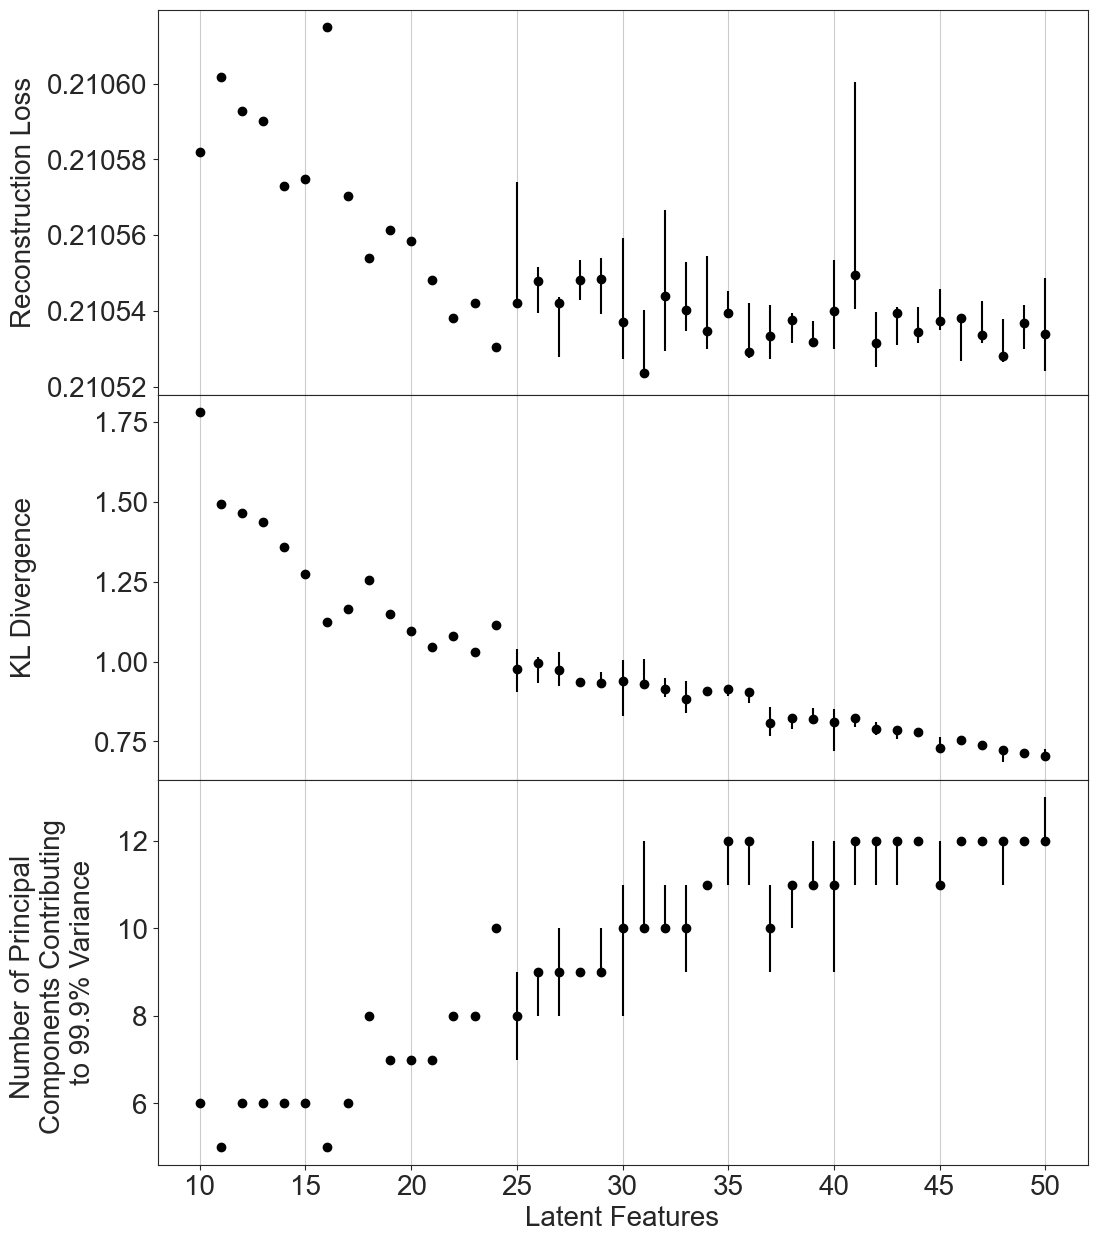
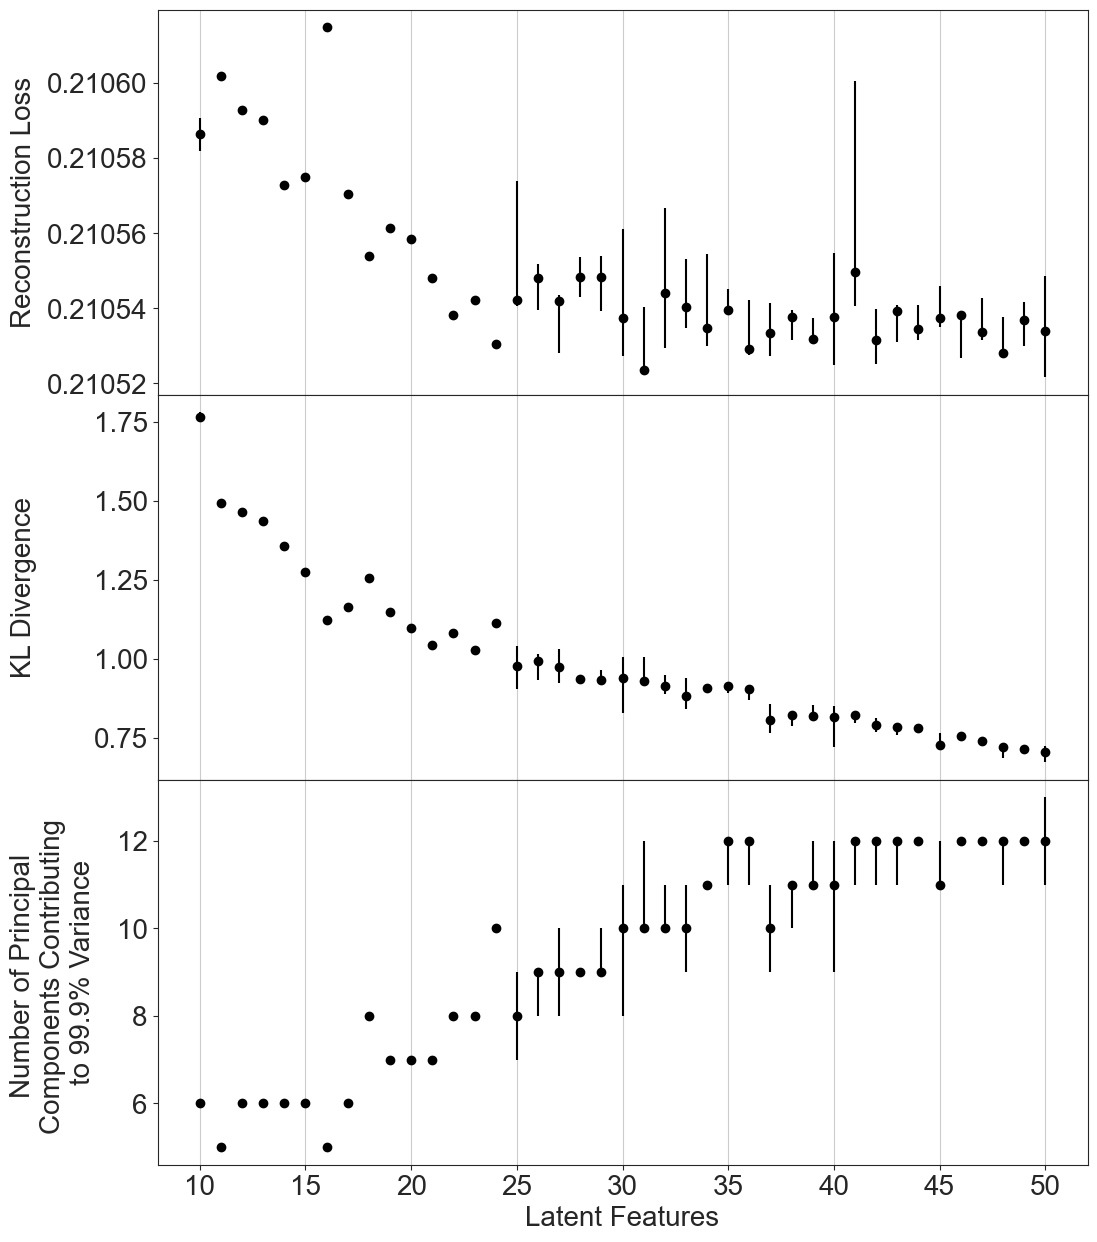
Code

diff --git a/planar_flow_vae_eagle.py b/planar_flow_vae_eagle.py
@@ -145,55 +145,12 @@ def normalise_independently(image):
 
 # load spirals only
 
-spirals = np.load("Galaxy Properties/Eagle Properties/chosen_glaxies_spirals.npy")
-
-all_images = []
-
-for galaxy in spirals:
-
-    # open the image and append it to the main list
-    image = mpimg.imread("/cosma7/data/Eagle/web-storage/RefL0100N1504_Subhalo/galrand_" + str(galaxy) + ".png")
-
-    # normalise the image (each band independently)
-    image = normalise_independently(image)
-
-    # add the image to the dataset
-    all_images.append(image)
-
-
-augmented_galaxies = os.listdir("/cosma5/data/durham/dc-howi1/project/Eagle Augmented/Spirals Only/")
-
-for galaxy in augmented_galaxies:
-
-    # load each augmented image
-    image = mpimg.imread("/cosma5/data/durham/dc-howi1/project/Eagle Augmented/Spirals Only/" + galaxy)
-
-    # normalise the image
-    image = normalise_independently(image)
-
-    # add the image to the training set (not the testing set)
-    all_images.append(image)
-
-
-train_images = np.array(all_images)
-# test_images = np.array(all_images[-200:])
-
-print("Spirals Training Set:", train_images.shape)
-print()
-
-
-
-
-
-
-
-# load transitional only
-
-# transitional = np.load("Galaxy Properties/Eagle Properties/chosen_glaxies_transitional.npy")
+# spirals = np.load("Galaxy Properties/Eagle Properties/chosen_glaxies_spirals.npy")
 #
 # all_images = []
 #
-# for galaxy in transitional:
+# for galaxy in spirals:
+#
 #     # open the image and append it to the main list
 #     image = mpimg.imread("/cosma7/data/Eagle/web-storage/RefL0100N1504_Subhalo/galrand_" + str(galaxy) + ".png")
 #
@@ -203,12 +160,13 @@ print()
 #     # add the image to the dataset
 #     all_images.append(image)
 #
-# augmented_galaxies = os.listdir("/cosma5/data/durham/dc-howi1/project/Eagle Augmented/Transitional Only/")
+#
+# augmented_galaxies = os.listdir("/cosma5/data/durham/dc-howi1/project/Eagle Augmented/Spirals Only/")
 #
 # for galaxy in augmented_galaxies:
 #
 #     # load each augmented image
-#     image = mpimg.imread("/cosma5/data/durham/dc-howi1/project/Eagle Augmented/Transitional Only/" + galaxy)
+#     image = mpimg.imread("/cosma5/data/durham/dc-howi1/project/Eagle Augmented/Spirals Only/" + galaxy)
 #
 #     # normalise the image
 #     image = normalise_independently(image)
@@ -216,11 +174,53 @@ print()
 #     # add the image to the training set (not the testing set)
 #     all_images.append(image)
 #
+#
 # train_images = np.array(all_images)
 # # test_images = np.array(all_images[-200:])
 #
-# print("Transitional Training Set:", train_images.shape)
+# print("Spirals Training Set:", train_images.shape)
 # print()
+
+
+
+
+
+
+
+# load transitional only
+
+transitional = np.load("Galaxy Properties/Eagle Properties/chosen_glaxies_transitional.npy")
+
+all_images = []
+
+for galaxy in transitional:
+    # open the image and append it to the main list
+    image = mpimg.imread("/cosma7/data/Eagle/web-storage/RefL0100N1504_Subhalo/galrand_" + str(galaxy) + ".png")
+
+    # normalise the image (each band independently)
+    image = normalise_independently(image)
+
+    # add the image to the dataset
+    all_images.append(image)
+
+augmented_galaxies = os.listdir("/cosma5/data/durham/dc-howi1/project/Eagle Augmented/Transitional Only/")
+
+for galaxy in augmented_galaxies:
+
+    # load each augmented image
+    image = mpimg.imread("/cosma5/data/durham/dc-howi1/project/Eagle Augmented/Transitional Only/" + galaxy)
+
+    # normalise the image
+    image = normalise_independently(image)
+
+    # add the image to the training set (not the testing set)
+    all_images.append(image)
+
+train_images = np.array(all_images)
+# test_images = np.array(all_images[-200:])
+
+print("Transitional Training Set:", train_images.shape)
+print()
 
 
 
@@ -536,16 +536,16 @@ for run in range(17, 26):
     vae.build(input_shape=(None, 256, 256, 3))
 
     # or load the weights from a previous run
-    vae.load_weights("Variational Eagle/Weights/Spirals/planar_new_latent_" + str(encoding_dim) + "_beta_" + beta_name + "_epoch_" + str(epochs) + "_flows_" + str(n_flows) + "_" + str(run) + "_default.weights.h5")
+    vae.load_weights("Variational Eagle/Weights/Transitional/planar_new_latent_" + str(encoding_dim) + "_beta_" + beta_name + "_epoch_" + str(epochs) + "_flows_" + str(n_flows) + "_" + str(run) + "_default.weights.h5")
 
     # save the weights
-    vae.save_weights(filepath="Variational Eagle/Weights/Spirals/planar_new_latent_" + str(encoding_dim) + "_beta_" + beta_name + "_epoch_" + str(epochs) + "_flows_" + str(n_flows) + "_" + str(run) + "_default.weights.h5", overwrite=True)
+    vae.save_weights(filepath="Variational Eagle/Weights/Transitional/planar_new_latent_" + str(encoding_dim) + "_beta_" + beta_name + "_epoch_" + str(epochs) + "_flows_" + str(n_flows) + "_" + str(run) + "_default.weights.h5", overwrite=True)
 
 
 
     # get and save the extracted features (pre transformations)
     z_mean, z_log_var, _, _ = vae.encoder.predict(train_images)
-    np.save("Variational Eagle/Extracted Features/Spirals/planar_new_latent_" + str(encoding_dim) + "_beta_" + beta_name + "_epoch_" + str(epochs) + "_flows_" + str(n_flows) + "_" + str(run) + "_default.npy", z_mean)
+    np.save("Variational Eagle/Extracted Features/Transitional/planar_new_latent_" + str(encoding_dim) + "_beta_" + beta_name + "_epoch_" + str(epochs) + "_flows_" + str(n_flows) + "_" + str(run) + "_default.npy", z_mean)
 
 
 
@@ -573,7 +573,7 @@ for run in range(17, 26):
         sum_log_det_jacobians = np.zeros(z_mean.shape[0], dtype=np.float32)
 
 
-    np.save("Variational Eagle/Extracted Features/Spirals/planar_new_latent_" + str(encoding_dim) + "_beta_" + beta_name + "_epoch_" + str(epochs) + "_flows_" + str(n_flows) + "_" + str(run) + "_default_transformed.npy", z_transformed)
+    np.save("Variational Eagle/Extracted Features/Transitional/planar_new_latent_" + str(encoding_dim) + "_beta_" + beta_name + "_epoch_" + str(epochs) + "_flows_" + str(n_flows) + "_" + str(run) + "_default_transformed.npy", z_transformed)
 
 
 
@@ -602,7 +602,7 @@ for run in range(17, 26):
         total_loss = reconstruction_loss + (beta * kl_loss)
 
         loss = np.array([total_loss, reconstruction_loss, kl_loss])
-        np.save("Variational Eagle/Loss/Spirals/planar_new_latent_" + str(encoding_dim) + "_beta_" + beta_name + "_epoch_" + str(epochs) + "_flows_" + str(n_flows) + "_" + str(run) + "_default.npy", loss)
+        np.save("Variational Eagle/Loss/Transitional/planar_new_latent_" + str(encoding_dim) + "_beta_" + beta_name + "_epoch_" + str(epochs) + "_flows_" + str(n_flows) + "_" + str(run) + "_default.npy", loss)
 
 
         # individual losses of each image
@@ -610,7 +610,7 @@ for run in range(17, 26):
         print(reconstruction_loss_individual.shape)
 
         # save individual losses
-        np.save("Variational Eagle/Loss/Spirals/planar_new_latent_" + str(encoding_dim) + "_beta_" + beta_name + "_epoch_" + str(epochs) + "_flows_" + str(n_flows) + "_" + str(run) + "_default_individual_reconstruction.npy", reconstruction_loss_individual)
+        np.save("Variational Eagle/Loss/Transitional/planar_new_latent_" + str(encoding_dim) + "_beta_" + beta_name + "_epoch_" + str(epochs) + "_flows_" + str(n_flows) + "_" + str(run) + "_default_individual_reconstruction.npy", reconstruction_loss_individual)
 
 
         # individual residuals of each image
@@ -620,7 +620,7 @@ for run in range(17, 26):
         print("Residual Shape", residuals.shape)
 
         # save the individual residuals
-        np.save("Variational Eagle/Loss/Spirals/planar_new_latent_" + str(encoding_dim) + "_beta_" + beta_name + "_epoch_" + str(epochs) + "_flows_" + str(n_flows) + "_" + str(run) + "_default_individual_residual.npy", residuals)
+        np.save("Variational Eagle/Loss/Transitional/planar_new_latent_" + str(encoding_dim) + "_beta_" + beta_name + "_epoch_" + str(epochs) + "_flows_" + str(n_flows) + "_" + str(run) + "_default_individual_residual.npy", residuals)
 
 
         print("\n \n" + str(encoding_dim) + "   " + str(n_flows) + "   " + str(run))
@@ -690,7 +690,7 @@ for run in range(17, 26):
         axs[1, i].get_xaxis().set_visible(False)
         axs[1, i].get_yaxis().set_visible(False)
 
-    plt.savefig("Variational Eagle/Reconstructions/Training/Spirals/planar_new_latent_" + str(encoding_dim) + "_beta_" + beta_name + "_epoch_" + str(epochs) + "_flows_" + str(n_flows) + "_" + str(run) + "_default")
+    plt.savefig("Variational Eagle/Reconstructions/Training/Transitional/planar_new_latent_" + str(encoding_dim) + "_beta_" + beta_name + "_epoch_" + str(epochs) + "_flows_" + str(n_flows) + "_" + str(run) + "_default")
     plt.show(block=False)
     plt.close()
 

diff --git a/comparison-models.py b/comparison-models.py
@@ -24,26 +24,28 @@ transitional_losses = []
 for run in range(1, 26):
 
     # balanced_loss = np.load("Variational Eagle/Loss/Normalising Flow Balanced/planar_new_latent_" + str(encoding_dim) + "_beta_" + beta_name + "_epoch_" + str(epochs) + "_flows_" + str(n_flows) + "_" + str(run) + "_default.npy")
+    # balanced_losses.append(balanced_loss[1])
     balanced_loss = np.load("Variational Eagle/Loss/Normalising Flow Balanced/planar_new_latent_" + str(encoding_dim) + "_beta_" + beta_name + "_epoch_" + str(epochs) + "_flows_" + str(n_flows) + "_" + str(run) + "_default_individual_residual.npy")
     balanced_loss = np.mean(balanced_loss)
-    balanced_losses.append(balanced_loss[1])
+    balanced_losses.append(balanced_loss)
 
-# for run in range(1, 11):
-
-    spiral_loss = np.load("Variational Eagle/Loss/Spirals/planar_new_latent_" + str(encoding_dim) + "_beta_" + beta_name + "_epoch_" + str(epochs) + "_flows_" + str(n_flows) + "_" + str(run) + "_default.npy")
-    # spiral_loss = np.load("Variational Eagle/Loss/Spirals/planar_new_latent_" + str(encoding_dim) + "_beta_" + beta_name + "_epoch_" + str(epochs) + "_flows_" + str(n_flows) + "_" + str(run) + "_default_individual_residual.npy")
+    # spiral_loss = np.load("Variational Eagle/Loss/Spirals/planar_new_latent_" + str(encoding_dim) + "_beta_" + beta_name + "_epoch_" + str(epochs) + "_flows_" + str(n_flows) + "_" + str(run) + "_default.npy")
+    # spiral_losses.append(spiral_loss[1])
+    spiral_loss = np.load("Variational Eagle/Loss/Spirals/planar_new_latent_" + str(encoding_dim) + "_beta_" + beta_name + "_epoch_" + str(epochs) + "_flows_" + str(n_flows) + "_" + str(run) + "_default_individual_residual.npy")
     spiral_loss = np.mean(spiral_loss)
-    spiral_losses.append(spiral_loss[1])
+    spiral_losses.append(spiral_loss)
 
-    transitional_loss = np.load("Variational Eagle/Loss/Transitional/planar_new_latent_" + str(encoding_dim) + "_beta_" + beta_name + "_epoch_" + str(epochs) + "_flows_" + str(n_flows) + "_" + str(run) + "_default.npy")
-    # transitional_loss = np.load("Variational Eagle/Loss/Transitional/planar_new_latent_" + str(encoding_dim) + "_beta_" + beta_name + "_epoch_" + str(epochs) + "_flows_" + str(n_flows) + "_" + str(run) + "_default_individual_residual.npy")
+    # transitional_loss = np.load("Variational Eagle/Loss/Transitional/planar_new_latent_" + str(encoding_dim) + "_beta_" + beta_name + "_epoch_" + str(epochs) + "_flows_" + str(n_flows) + "_" + str(run) + "_default.npy")
+    # transitional_losses.append(transitional_loss[1])
+    transitional_loss = np.load("Variational Eagle/Loss/Transitional/planar_new_latent_" + str(encoding_dim) + "_beta_" + beta_name + "_epoch_" + str(epochs) + "_flows_" + str(n_flows) + "_" + str(run) + "_default_individual_residual.npy")
     transitional_loss = np.mean(transitional_loss)
-    transitional_losses.append(transitional_loss[1])
+    transitional_losses.append(transitional_loss)
 
     # elliptical_loss = np.load("Variational Eagle/Loss/Ellipticals/planar_new_latent_" + str(encoding_dim) + "_beta_" + beta_name + "_epoch_" + str(epochs) + "_flows_" + str(n_flows) + "_" + str(run) + "_default.npy")
+    # elliptical_losses.append(elliptical_loss[1])
     elliptical_loss = np.load("Variational Eagle/Loss/Ellipticals/planar_new_latent_" + str(encoding_dim) + "_beta_" + beta_name + "_epoch_" + str(epochs) + "_flows_" + str(n_flows) + "_" + str(run) + "_default_individual_residual.npy")
     elliptical_loss = np.mean(elliptical_loss)
-    elliptical_losses.append(elliptical_loss[1])
+    elliptical_losses.append(elliptical_loss)
 
 
 all_losses = [balanced_losses, spiral_losses, transitional_losses, elliptical_losses]
@@ -51,11 +53,11 @@ all_losses = [balanced_losses, spiral_losses, transitional_losses, elliptical_lo
 
 
 
-# fig, axs = plt.subplots(1, 1, figsize=(20, 20))
-#
-# axs.boxplot(x=all_losses)
-#
-# plt.show()
+fig, axs = plt.subplots(1, 1, figsize=(20, 20))
+
+axs.boxplot(x=all_losses)
+
+plt.show()
 
 
 
@@ -75,29 +77,29 @@ all_losses = [balanced_losses, spiral_losses, transitional_losses, elliptical_lo
 
 
 
-mean_losses = [np.mean(balanced_losses), np.mean(spiral_losses), np.mean(transitional_losses), np.mean(elliptical_losses)]
-print(mean_losses)
-
-fig, axs = plt.subplots(1, 1, figsize=(5, 10))
-
-axs.scatter([0, 0, 0, 0], mean_losses, s=150)
-
-# labels = ["Balanced", "Disk-Dominated", "Transitional", "Bulge-Dominated"]
-
-axs.text(0.05, mean_losses[0], "Balanced", fontsize=20, ha="left", va="center")
-axs.text(0.05, mean_losses[1], "Disk-Dominated", fontsize=20, ha="left", va="center")
-axs.text(0.05, mean_losses[2], "Transitional", fontsize=20, ha="left", va="center")
-axs.text(0.05, mean_losses[3], "Bulge-Dominated", fontsize=20, ha="left", va="center")
-
-axs.set_ylabel("Reconstruction Loss (BCE)", fontsize=20, labelpad=20)
-axs.tick_params(labelsize=20)
-axs.set_xlim(-0.1, 0.6)
-axs.set_xticks([])
-# axs.set_yticks([round(mean_losses[2], 3), round(mean_losses[1], 3), round(mean_losses[0], 3), round(mean_losses[3], 3)])
-# axs.set_yticks([0.204, 0.206, 0.208, 0.210, 0.212, 0.214, 0.216])
-
-plt.savefig("Variational Eagle/Plots/subset_loss_comparison_2", bbox_inches="tight")
-plt.show()
+# mean_losses = [np.mean(balanced_losses), np.mean(spiral_losses), np.mean(transitional_losses), np.mean(elliptical_losses)]
+# print(mean_losses)
+#
+# fig, axs = plt.subplots(1, 1, figsize=(5, 10))
+#
+# axs.scatter([0, 0, 0, 0], mean_losses, s=150)
+#
+# # labels = ["Balanced", "Disk-Dominated", "Transitional", "Bulge-Dominated"]
+#
+# axs.text(0.05, mean_losses[0], "Balanced", fontsize=20, ha="left", va="center")
+# axs.text(0.05, mean_losses[1], "Disk-Dominated", fontsize=20, ha="left", va="center")
+# axs.text(0.05, mean_losses[2], "Transitional", fontsize=20, ha="left", va="center")
+# axs.text(0.05, mean_losses[3], "Bulge-Dominated", fontsize=20, ha="left", va="center")
+#
+# axs.set_ylabel("Reconstruction Loss (BCE)", fontsize=20, labelpad=20)
+# axs.tick_params(labelsize=20)
+# axs.set_xlim(-0.1, 0.6)
+# axs.set_xticks([])
+# # axs.set_yticks([round(mean_losses[2], 3), round(mean_losses[1], 3), round(mean_losses[0], 3), round(mean_losses[3], 3)])
+# # axs.set_yticks([0.204, 0.206, 0.208, 0.210, 0.212, 0.214, 0.216])
+#
+# plt.savefig("Variational Eagle/Plots/subset_loss_comparison_2", bbox_inches="tight")
+# plt.show()
 
 
 
